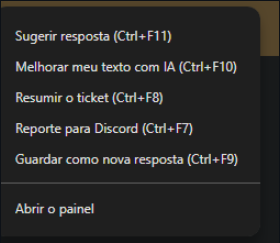
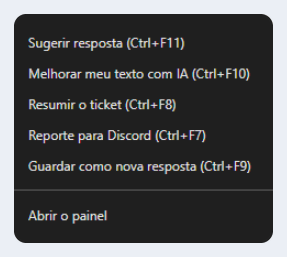
Deixa o print do menu da extensão no mesmo padrão dos outros

diff --git a/src/content/projetos/painel-suporte.md b/src/content/projetos/painel-suporte.md
@@ -20,8 +20,8 @@ imagens:
     altura: 245
   - src: projetos/painel-suporte/extensao.png
     legenda: Extensão do Chrome, com as funções do painel no menu do botão direito.
-    largura: 280
-    altura: 243
+    largura: 287
+    altura: 257
   - src: projetos/painel-suporte/resumo.png
     legenda: Ctrl+F8 resume o ticket com a IA e copia o resumo.
     largura: 534
